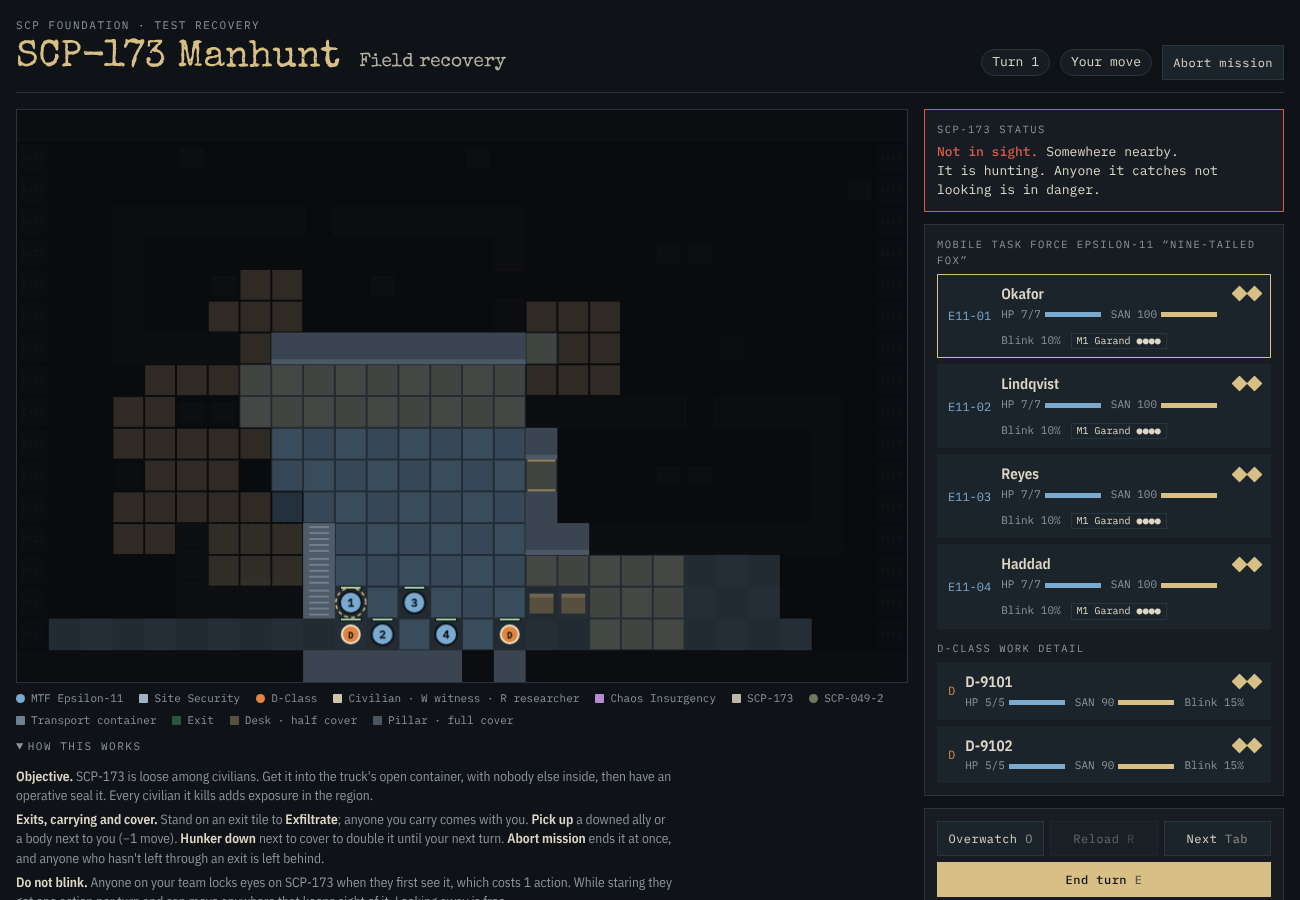
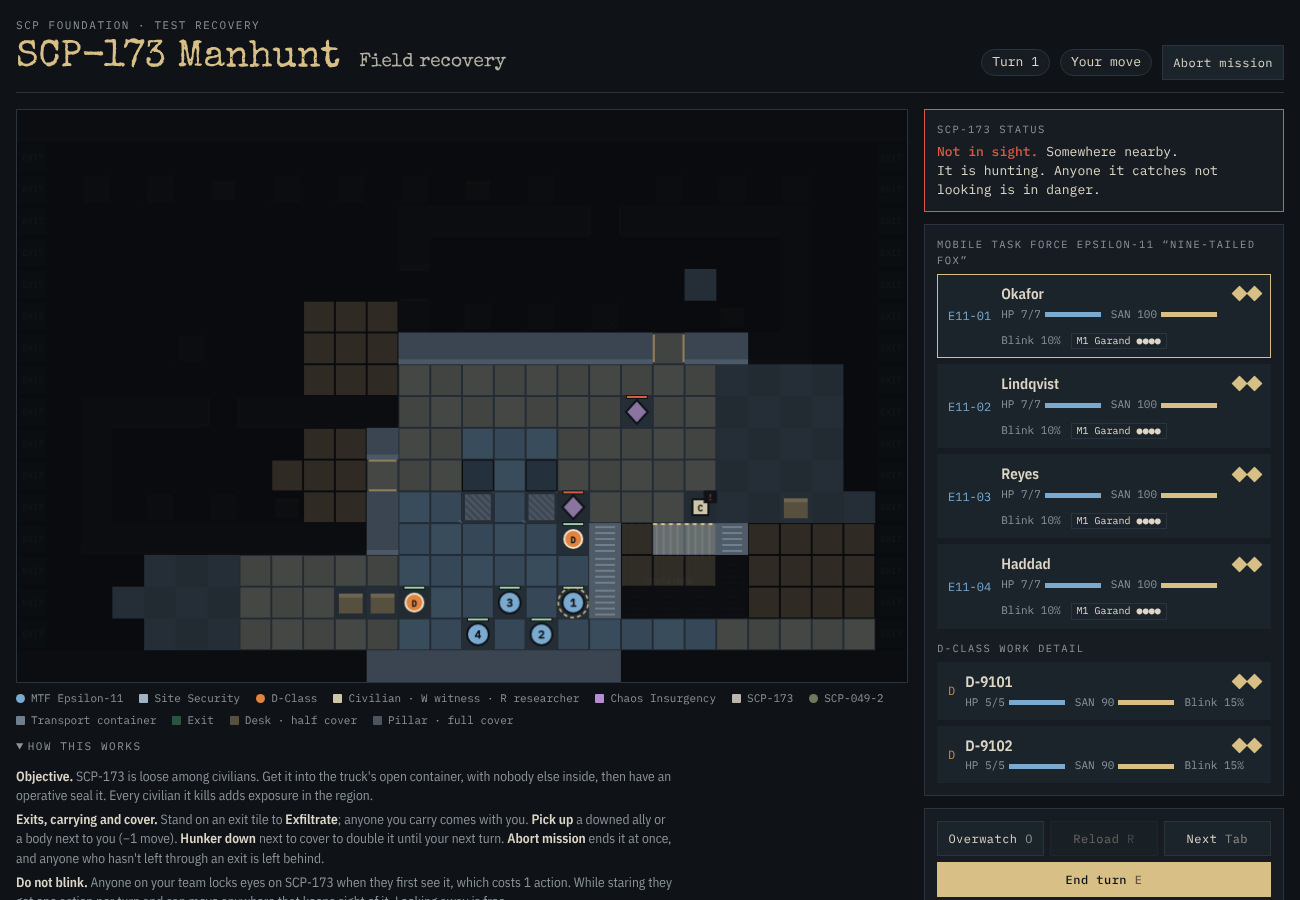
Maps refurnished from room plots every mission
Each mission keeps a map's walls, doors, container and exits but lays
every room out from a random plot (office rows, lab, storeroom, sparse),
and town, farm and port are mirrored half the time. A layout is only
used if all floor stays reachable. Code reads the live layout instead of
the original map.

Claude-Session: https://claude.ai/code/session_017pAM4sBVbioBPVRJkZ62kw

Changed region(s): [[0.0308, 0.28, 0.6769, 0.7778]]

diff --git a/src/data/plots.ts b/src/data/plots.ts
@@ -1,0 +1,90 @@
+// Map variety: every mission keeps a map's walls, doors, container and exits, but refurnishes each
+// room from a random plot (office rows, a lab with pillars, a storeroom, a sparse room), and field
+// maps are mirrored half the time. A layout is only used if every floor tile can still be reached.
+import type { MapDef, Pt } from "../core/grid";
+
+type Rect = [number, number, number, number];
+const pick = <T>(a: T[]) => a[Math.floor(Math.random() * a.length)];
+const rand = (a: number, b: number) => a + Math.floor(Math.random() * (b - a + 1));
+const WALKABLE = new Set([".", "+", "E", "C"]);
+
+/** Flip a map left to right, with every coordinate it carries. */
+function mirror(def: MapDef): MapDef {
+  const W = def.rows[0].length;
+  const mx = (p: Pt): Pt => [W - 1 - p[0], p[1]];
+  const mr = (r: Rect): Rect => [W - 1 - r[2], r[1], W - 1 - r[0], r[3]];
+  return {
+    ...def,
+    rows: def.rows.map(r => [...r].reverse().join("")),
+    area: (x, y) => def.area(W - 1 - x, y),
+    squadSpawns: def.squadSpawns.map(mx),
+    scpRooms: def.scpRooms.map(mr),
+    insurgentRooms: def.insurgentRooms.map(mr),
+    strayRooms: def.strayRooms.map(mr),
+    hatch: def.hatch && mx(def.hatch),
+    panel: def.panel && mx(def.panel),
+  };
+}
+
+/** Every walkable tile reachable from the first spawn, moving like units do (no corner cutting). */
+function allReachable(grid: string[][], from: Pt) {
+  const H = grid.length, W = grid[0].length, ok = (x: number, y: number) => x >= 0 && y >= 0 && x < W && y < H && WALKABLE.has(grid[y][x]);
+  const seen = new Set<number>([from[1] * W + from[0]]), q: Pt[] = [from];
+  for (let i = 0; i < q.length; i++) {
+    const [x, y] = q[i];
+    for (let dy = -1; dy <= 1; dy++) for (let dx = -1; dx <= 1; dx++) {
+      if (!dx && !dy) continue;
+      const nx = x + dx, ny = y + dy;
+      if (!ok(nx, ny) || (dx && dy && (!ok(x + dx, y) || !ok(x, y + dy))) || seen.has(ny * W + nx)) continue;
+      seen.add(ny * W + nx); q.push([nx, ny]);
+    }
+  }
+  let total = 0;
+  for (let y = 0; y < H; y++) for (let x = 0; x < W; x++) if (ok(x, y)) total++;
+  return seen.size === total;
+}
+
+/** Lay one room out from a plot. Only touches open floor that isn't next to a door or kept clear. */
+function furnish(grid: string[][], r: Rect, keep: Set<number>) {
+  const W = grid[0].length;
+  const free = (x: number, y: number) => grid[y]?.[x] === "." && !keep.has(y * W + x);
+  const put = (x: number, y: number, c: string) => { if (free(x, y)) grid[y][x] = c; };
+  const [x0, y0, x1, y1] = r, w = x1 - x0 + 1, h = y1 - y0 + 1;
+  const plot = pick(w >= 6 && h >= 4 ? ["office", "lab", "storage", "sparse"] : ["sparse", "storage"]);
+  if (plot === "office") {
+    // rows of paired desks with an aisle between them
+    for (let y = y0 + 1; y < y1; y += 2) for (let x = x0 + 1 + rand(0, 1); x + 1 < x1; x += 4) { put(x, y, "h"); put(x + 1, y, "h"); }
+  } else if (plot === "lab") {
+    for (let i = rand(1, 2); i > 0; i--) put(rand(x0 + 1, x1 - 1), rand(y0 + 1, y1 - 1), "H");
+    for (let i = rand(2, 3); i > 0; i--) put(rand(x0 + 1, x1 - 1), rand(y0, y1), "h");
+  } else if (plot === "storage") {
+    // crates stacked along one wall, with gaps to squeeze between
+    const top = Math.random() < 0.5;
+    for (let x = x0 + rand(0, 1); x <= x1; x += 2) put(x, top ? y0 : y1, Math.random() < 0.6 ? "H" : "h");
+  } else {
+    for (let i = rand(2, 3); i > 0; i--) put(rand(x0, x1), rand(y0, y1), "h");
+  }
+}
+
+/** A freshly laid-out copy of a map for one mission. */
+export function varyMap(base: MapDef, canMirror: boolean): MapDef {
+  const def = canMirror && Math.random() < 0.5 ? mirror(base) : base;
+  const W = def.rows[0].length;
+  const rooms: Rect[] = [];
+  for (const r of [...def.scpRooms, ...def.insurgentRooms, ...def.strayRooms]) if (!rooms.some(o => o.join() === r.join())) rooms.push(r);
+  // tiles that always stay open: doorways and the tiles around them, spawns, the container's mouth, the hatch and panel
+  const keep = new Set<number>();
+  const hold = (x: number, y: number, rad: number) => { for (let dy = -rad; dy <= rad; dy++) for (let dx = -rad; dx <= rad; dx++) keep.add((y + dy) * W + x + dx); };
+  def.rows.forEach((row, y) => [...row].forEach((c, x) => { if (c === "+" || c === "C" || c === "E") hold(x, y, 1); }));
+  for (const [x, y] of def.squadSpawns) hold(x, y, 1);
+  if (def.hatch) hold(def.hatch[0], def.hatch[1], 1);
+  if (def.panel) hold(def.panel[0], def.panel[1], 1);
+  for (let attempt = 0; attempt < 25; attempt++) {
+    const grid = def.rows.map(r => [...r]);
+    for (const [x0, y0, x1, y1] of rooms)
+      for (let y = y0; y <= y1; y++) for (let x = x0; x <= x1; x++) if (grid[y][x] === "h" || grid[y][x] === "H") grid[y][x] = ".";
+    for (const r of rooms) furnish(grid, r, keep);
+    if (allReachable(grid, def.squadSpawns[0])) return { ...def, rows: grid.map(r => r.join("")) };
+  }
+  return def;
+}

diff --git a/src/game/mission.ts b/src/game/mission.ts
@@ -1,6 +1,8 @@
 // Building a mission from what Site-19 sends, and turning its outcome into a result.
 import { FLOOR, L, Level, floorTiles, tileAt, useLevel, type Pt } from "../core/grid";
 import { MAPS } from "../data/maps";
+import { varyMap } from "../data/plots";
+
 import { setSmoke } from "../core/sight";
 import { insurgentGuns } from "../data/weapons";
 import { STARTING_NOTES } from "./notes";
@@ -31,7 +33,7 @@ export function spawnMember(m: SquadMember, x: number, y: number, mods: MissionS
 
 /** Free floor tiles within 2 of the squad's entry points, nearest first. */
 export function entryTiles(): Pt[] {
-  const def = MAPS[S.setup.map], out: Pt[] = [];
+  const def = L.def, out: Pt[] = [];
   for (let y = 0; y < L.H; y++) for (let x = 0; x < L.W; x++)
     if (tileAt(x, y) === FLOOR && def.squadSpawns.some(([sx, sy]) => Math.max(Math.abs(sx - x), Math.abs(sy - y)) <= 2)) out.push([x, y]);
   const d = (p: Pt) => Math.min(...def.squadSpawns.map(([sx, sy]) => Math.max(Math.abs(sx - p[0]), Math.abs(sy - p[1]))));
@@ -40,7 +42,8 @@ export function entryTiles(): Pt[] {
 
 export function createMission(setup: MissionSetup) {
   nextSlot = 1;
-  const def = MAPS[setup.map];
+  // a fresh layout every time: rooms refurnished, field maps mirrored half the time
+  const def = varyMap(MAPS[setup.map], setup.map !== "wingC");
   useLevel(new Level(def));
   const taken = new Set<string>();
   const claim = (tiles: Pt[]) => {

diff --git a/src/game/abilities.ts b/src/game/abilities.ts
@@ -69,7 +69,7 @@ export function abilityTargets(u: Unit, p: AbilityId): Unit[] {
       return S.has049 && !S.sealed && d.alive && cheb(u.x, u.y, d.x, d.y) <= 3 && canSee(u, d.x, d.y) ? [d] : [];
     }
     case "panel": {
-      const pn = MAPS[S.setup.map].panel;
+      const pn = L.def.panel;
       return pn && S.has173 && !S.sealed && !u.staring && S.lockedUntil < S.turn && cheb(u.x, u.y, pn[0], pn[1]) <= 1 ? [u] : [];
     }
     case "ally": return team().filter(a => adjacent(u, a) && (p === "medkit" ? a.hp < a.maxHp && a.side === "mtf" : a.san < maxSanOf(a)));

diff --git a/src/ui/missionView.ts b/src/ui/missionView.ts
@@ -281,7 +281,7 @@ export function mountMission(root: HTMLElement, onReturn: () => void, debrief: (
     }
 
     // breach extras: when help arrives, and how close SCP-173 is to leaving
-    if (has173 && MAPS[S.setup.map].hatch && !S.sealed) {
+    if (has173 && L.def.hatch && !S.sealed) {
       const next = [...S.reinforce].sort((a, b) => a.turn - b.turn);
       const locked = S.lockedUntil >= S.turn;
       const threat = escaping() ? `<span class="warn">high: it is heading for the hatch</span>` : S.escapeDrive >= ESCAPE_AT - 2 ? "rising" : "low";

diff --git a/src/ui/render.ts b/src/ui/render.ts
@@ -107,7 +107,7 @@ export function createRenderer(cv: HTMLCanvasElement) {
 
   // The surface hatch SCP-173 can escape through, and the panel that locks it
   function drawHatch() {
-    const def = MAPS[S.setup.map];
+    const def = L.def;
     if (!S.has173 || !def.hatch || !def.panel) return;
     const [hx, hy] = def.hatch, [px, py] = def.panel, locked = S.lockedUntil >= S.turn;
     ctx.fillStyle = locked ? "#4f5c68" : escaping() && !S.sealed ? "rgba(215,91,71,0.55)" : "#3b3226";

diff --git a/src/game/scp173.ts b/src/game/scp173.ts
@@ -12,7 +12,7 @@ import { MAPS } from "../data/maps";
 export const LUNGE = 8;
 /** Unseen turns without a kill before SCP-173 makes for the surface hatch. */
 export const ESCAPE_AT = 5;
-const hatchOf = () => MAPS[S.setup.map].hatch;
+const hatchOf = () => L.def.hatch;
 /** It heads for the hatch once its drive is up, unless the hatch is locked down. */
 export const escaping = () => !!hatchOf() && S.escapeDrive >= ESCAPE_AT && S.lockedUntil < S.turn;
 

diff --git a/docs/ROADMAP.md b/docs/ROADMAP.md
@@ -68,7 +68,7 @@ Done alongside part 1
 ## Phase 3C: tactical depth
 
 From the XCOM 2 comparison, plus harder breaches. Order: (1) harder breaches, hunker down, carrying and exits
-(done); (2) concealment and enemy pods (done); (3) maps assembled from room plots; (4) night missions, escorts and
+(done); (2) concealment and enemy pods (done); (3) maps assembled from room plots (done); (4) night missions, escorts and
 retaliation; (5) doors and sirens.
 
 - Breaches: 1 to 3 researchers are caught in the wing. Walk someone next to one and they follow that person to an exit.
